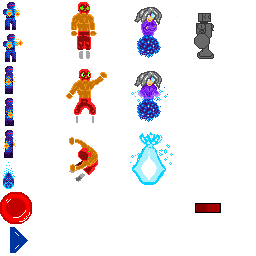
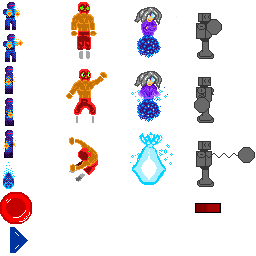
Se agregaron mas sprites a RobotEnemy

Changed region(s): [[0.75, 0.5312, 1.0, 0.75], [0.75, 0.2812, 0.8438, 0.5], [0.75, 0.0625, 0.875, 0.1875]]

diff --git a/app/src/main/java/com/jgame/elements/RobotEnemy.java b/app/src/main/java/com/jgame/elements/RobotEnemy.java
@@ -17,9 +17,9 @@ public class RobotEnemy extends GameCharacter {
     }
 
     public final static TextureData TELEPORT_TEXTURE = new TextureDrawer.TextureData(0,0.625f,0.125f,0.75f);
-    public final static TextureData IDLE_TEXTURE = new TextureDrawer.TextureData(0.75f,0,1f,0.25f);
-    public final static TextureData STARTUP_ATTACK = new TextureDrawer.TextureData(0.5f,0.25f,0.75f,0.5f);
-    public final static TextureData ATTACK_TEXTURE = new TextureDrawer.TextureData(0.5f,0.5f,0.75f,0.75f);
+    public final static TextureData IDLE_TEXTURE = new TextureDrawer.TextureData(0.75f,0.25f,1f,0.5f);
+    public final static TextureData STARTUP_ATTACK = new TextureDrawer.TextureData(0.75f,0,1f,0.25f);
+    public final static TextureData ATTACK_TEXTURE = new TextureDrawer.TextureData(0.75f,0.5f,1f,0.75f);
     public final static float DISTANCE_FROM_MAIN_CHARACTER = 150;
     public final static float ATTACK_DISTANCE = 100;
     public final static float TIME_TO_SELF_DESTRUCT = 5;
